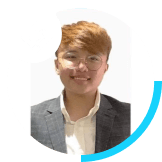
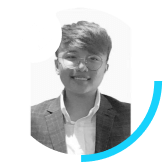
update team

diff --git a/index.html b/index.html
@@ -1320,7 +1320,7 @@
                 <div class="my_team">
                   <div class="person">
                     <img
-                      src="https://dvibdyqjx.mo.cloudinary.net/assets/images/slider/page13/lee.png"
+                      src="./assets/images/slider/page13/lee.png"
                       alt="logo"
                       class="avatar swiper-lazy"
                     />
@@ -1339,7 +1339,7 @@
 
                   <div class="person">
                     <img
-                      src="https://dvibdyqjx.mo.cloudinary.net/assets/images/slider/page13/eric.png"
+                      src="./assets/images/slider/page13/eric.png"
                       alt="logo"
                       class="avatar swiper-lazy"
                     />
@@ -1353,78 +1353,9 @@
                       />
                     </div>
                   </div>
-
                   <div class="person">
                     <img
-                      src="https://dvibdyqjx.mo.cloudinary.net/assets/images/slider/page13/andy.png"
-                      alt="logo"
-                      class="avatar swiper-lazy"
-                    />
-                    <p class="person-name">ANDY</p>
-                    <div class="description">
-                      <p class="position">CHIEF PRODUCT OFFICER</p>
-                      <img
-                        src="https://dvibdyqjx.mo.cloudinary.net/assets/images/ldp/Vector (3).png"
-                        alt=""
-                        class="swiper-lazy"
-                      />
-                    </div>
-                  </div>
-
-                  <div class="person">
-                    <img
-                      src="https://dvibdyqjx.mo.cloudinary.net/assets/images/slider/page13/virgo.png"
-                      alt="logo"
-                      class="avatar swiper-lazy"
-                    />
-                    <p class="person-name">VIRGO</p>
-                    <div class="description">
-                      <p class="position">cto</p>
-                      <img
-                        src="https://dvibdyqjx.mo.cloudinary.net/assets/images/ldp/Vector (3).png"
-                        alt=""
-                        class="swiper-lazy"
-                      />
-                    </div>
-                  </div>
-
-                  <div class="person">
-                    <img
-                      src="https://dvibdyqjx.mo.cloudinary.net/assets/images/slider/page13/thomson.png"
-                      alt="logo"
-                      class="avatar swiper-lazy"
-                    />
-                    <p class="person-name">THOMSON</p>
-                    <div class="description">
-                      <p class="position">LEAD UNREAL ENGINE 5 DEVELOPER</p>
-                      <img
-                        src="https://dvibdyqjx.mo.cloudinary.net/assets/images/ldp/Vector (3).png"
-                        alt=""
-                        class="swiper-lazy"
-                      />
-                    </div>
-                  </div>
-
-                  <div class="person">
-                    <img
-                      src="https://dvibdyqjx.mo.cloudinary.net/assets/images/slider/page13/mark.png"
-                      alt="logo"
-                      class="avatar swiper-lazy"
-                    />
-                    <p class="person-name">Mark</p>
-                    <div class="description">
-                      <p class="position">Chief partnership officer</p>
-                      <img
-                        src="https://dvibdyqjx.mo.cloudinary.net/assets/images/ldp/Vector (3).png"
-                        alt=""
-                        class="swiper-lazy"
-                      />
-                    </div>
-                  </div>
-
-                  <div class="person">
-                    <img
-                      src="https://dvibdyqjx.mo.cloudinary.net/assets/images/slider/page13/qkus.png"
+                      src="./assets/images/slider/page13/qkus.png"
                       alt="logo"
                       class="avatar swiper-lazy"
                     />
@@ -1438,16 +1369,70 @@
                       />
                     </div>
                   </div>
-
                   <div class="person">
                     <img
-                      src="https://dvibdyqjx.mo.cloudinary.net/assets/images/slider/page13/leo.png"
+                      src="./assets/images/slider/page13/thangNguyen.png"
                       alt="logo"
                       class="avatar swiper-lazy"
                     />
-                    <p class="person-name">Leo</p>
+                    <p class="person-name">THANG NGUYEN</p>
                     <div class="description">
-                      <p class="position">product owner</p>
+                      <p class="position">CTO
+                      </p>
+                      <img
+                        src="https://dvibdyqjx.mo.cloudinary.net/assets/images/ldp/Vector (3).png"
+                        alt=""
+                        class="swiper-lazy"
+                      />
+                    </div>
+                  </div>
+                  <div class="person">
+                    <img
+                      src="./assets/images/slider/page13/mark.png"
+                      alt="logo"
+                      class="avatar swiper-lazy"
+                    />
+                    <p class="person-name">Mark</p>
+                    <div class="description">
+                      <p class="position">Chief partnership officer</p>
+                      <img
+                        src="https://dvibdyqjx.mo.cloudinary.net/assets/images/ldp/Vector (3).png"
+                        alt=""
+                        class="swiper-lazy"
+                      />
+                    </div>
+                  </div>
+                  <div class="person">
+                    <img
+                      src="./assets/images/slider/page13/tim.png"
+                      alt="logo"
+                      class="avatar swiper-lazy"
+                    />
+                    <p class="person-name">Tim</p>
+                    <div class="description">
+                      <p class="position">CHIEF BLOCKCHAIN 
+                        OFFICer
+                        
+                        </p>
+                      <img
+                        src="https://dvibdyqjx.mo.cloudinary.net/assets/images/ldp/Vector (3).png"
+                        alt=""
+                        class="swiper-lazy"
+                      />
+                    </div>
+                  </div>
+                  <div class="person">
+                    <img
+                      src="./assets/images/slider/page13/thomas.png"
+                      alt="logo"
+                      class="avatar swiper-lazy"
+                    />
+                    <p class="person-name">THOMAS</p>
+                    <div class="description">
+                      <p class="position">blockchain engineer 
+                        lead
+                        
+                        </p>
                       <img
                         src="https://dvibdyqjx.mo.cloudinary.net/assets/images/ldp/Vector (3).png"
                         alt=""
@@ -1458,13 +1443,15 @@
 
                   <div class="person">
                     <img
-                      src="https://dvibdyqjx.mo.cloudinary.net/assets/images/slider/page13/karol zacharski.png"
+                      src="./assets/images/slider/page13/jhon.png"
                       alt="logo"
                       class="avatar swiper-lazy"
                     />
-                    <p class="person-name">Karol Zacharski</p>
+                    <p class="person-name">John</p>
                     <div class="description">
-                      <p class="position">Product manager</p>
+                      <p class="position">BLOCKCHAIN ENGINEER
+
+                      </p>
                       <img
                         src="https://dvibdyqjx.mo.cloudinary.net/assets/images/ldp/Vector (3).png"
                         alt=""
@@ -1475,7 +1462,28 @@
 
                   <div class="person">
                     <img
-                      src="https://dvibdyqjx.mo.cloudinary.net/assets/images/slider/page13/mingcat.png"
+                      src="./assets/images/slider/page13/jane.png"
+                      alt="logo"
+                      class="avatar swiper-lazy"
+                    />
+                    <p class="person-name">Jane</p>
+                    <div class="description">
+                      <p class="position">BUSINESS ANALYST
+
+
+
+                      </p>
+                      <img
+                        src="https://dvibdyqjx.mo.cloudinary.net/assets/images/ldp/Vector (3).png"
+                        alt=""
+                        class="swiper-lazy"
+                      />
+                    </div>
+                  </div>
+
+                  <div class="person">
+                    <img
+                      src="./assets/images/slider/page13/mingcat.png"
                       alt="logo"
                       class="avatar swiper-lazy"
                     />
@@ -1492,7 +1500,58 @@
 
                   <div class="person">
                     <img
-                      src="https://dvibdyqjx.mo.cloudinary.net/assets/images/slider/page13/louis.png"
+                      src="./assets/images/slider/page13/leo.png"
+                      alt="logo"
+                      class="avatar swiper-lazy"
+                    />
+                    <p class="person-name">Leo</p>
+                    <div class="description">
+                      <p class="position">product owner</p>
+                      <img
+                        src="https://dvibdyqjx.mo.cloudinary.net/assets/images/ldp/Vector (3).png"
+                        alt=""
+                        class="swiper-lazy"
+                      />
+                    </div>
+                  </div>
+
+                  <div class="person">
+                    <img
+                      src="./assets/images/slider/page13/karol zacharski.png"
+                      alt="logo"
+                      class="avatar swiper-lazy"
+                    />
+                    <p class="person-name">Karol</p>
+                    <div class="description">
+                      <p class="position">Product manager</p>
+                      <img
+                        src="https://dvibdyqjx.mo.cloudinary.net/assets/images/ldp/Vector (3).png"
+                        alt=""
+                        class="swiper-lazy"
+                      />
+                    </div>
+                  </div>
+
+                  <div class="person">
+                    <img
+                      src="./assets/images/slider/page13/jay.png"
+                      alt="logo"
+                      class="avatar swiper-lazy"
+                    />
+                    <p class="person-name">jay</p>
+                    <div class="description">
+                      <p class="position">head of community</p>
+                      <img
+                        src="https://dvibdyqjx.mo.cloudinary.net/assets/images/ldp/Vector (3).png"
+                        alt=""
+                        class="swiper-lazy"
+                      />
+                    </div>
+                  </div>
+
+                  <div class="person">
+                    <img
+                      src="./assets/images/slider/page13/louis.png"
                       alt="logo"
                       class="avatar swiper-lazy"
                     />
@@ -1509,13 +1568,15 @@
 
                   <div class="person">
                     <img
-                      src="https://dvibdyqjx.mo.cloudinary.net/assets/images/slider/page13/jay.png"
+                      src="./assets/images/slider/page13/virgo.png"
                       alt="logo"
                       class="avatar swiper-lazy"
                     />
-                    <p class="person-name">jay</p>
+                    <p class="person-name">VIRGO</p>
                     <div class="description">
-                      <p class="position">head of community</p>
+                      <p class="position">3d lead
+
+                      </p>
                       <img
                         src="https://dvibdyqjx.mo.cloudinary.net/assets/images/ldp/Vector (3).png"
                         alt=""
@@ -1523,6 +1584,63 @@
                       />
                     </div>
                   </div>
+
+                  <div class="person">
+                    <img
+                      src="./assets/images/slider/page13/thomson.png"
+                      alt="logo"
+                      class="avatar swiper-lazy"
+                    />
+                    <p class="person-name">THOMSON</p>
+                    <div class="description">
+                      <p class="position">LEAD UNREAL ENGINE 5 DEVELOPER</p>
+                      <img
+                        src="https://dvibdyqjx.mo.cloudinary.net/assets/images/ldp/Vector (3).png"
+                        alt=""
+                        class="swiper-lazy"
+                      />
+                    </div>
+                  </div>
+
+                 
+
+                
+
+                  <div class="person">
+                    <img
+                      src="./assets/images/slider/page13/andy.png"
+                      alt="logo"
+                      class="avatar swiper-lazy"
+                    />
+                    <p class="person-name">ANDY</p>
+                    <div class="description">
+                      <p class="position">CHIEF PRODUCT OFFICER</p>
+                      <img
+                        src="https://dvibdyqjx.mo.cloudinary.net/assets/images/ldp/Vector (3).png"
+                        alt=""
+                        class="swiper-lazy"
+                      />
+                    </div>
+                  </div>
+
+                  <div class="person">
+                    <img
+                      src="./assets/images/slider/page13/gustavo.png"
+                      alt="logo"
+                      class="avatar swiper-lazy"
+                    />
+                    <p class="person-name">GUSTAVO</p>
+                    <div class="description">
+                      <p class="position">community executive</p>
+                      <img
+                        src="https://dvibdyqjx.mo.cloudinary.net/assets/images/ldp/Vector (3).png"
+                        alt=""
+                        class="swiper-lazy"
+                      />
+                    </div>
+                  </div>
+
+
                 </div>
               </div>
             </div>

diff --git a/assets/stylesheets/sass/source/main.css b/assets/stylesheets/sass/source/main.css
@@ -3606,8 +3606,6 @@ header ._header_top .bg_header {
     max-width: 100%;
     margin-bottom: 1.5em;
     z-index: 99;
-    -webkit-filter: grayscale(100%);
-            filter: grayscale(100%);
   }
   #page-13 .main .my_team .person .person-name,
   #clone-parner .main .my_team .person .person-name {

diff --git a/assets/stylesheets/sass/source/page/_page13.scss b/assets/stylesheets/sass/source/page/_page13.scss
@@ -156,7 +156,7 @@
             max-width: 100%;
             margin-bottom: 1.5em;
             z-index: 99;
-            filter: grayscale(100%);
+            // filter: grayscale(100%);
           }
           .person-name {
             font-size: 18px;
